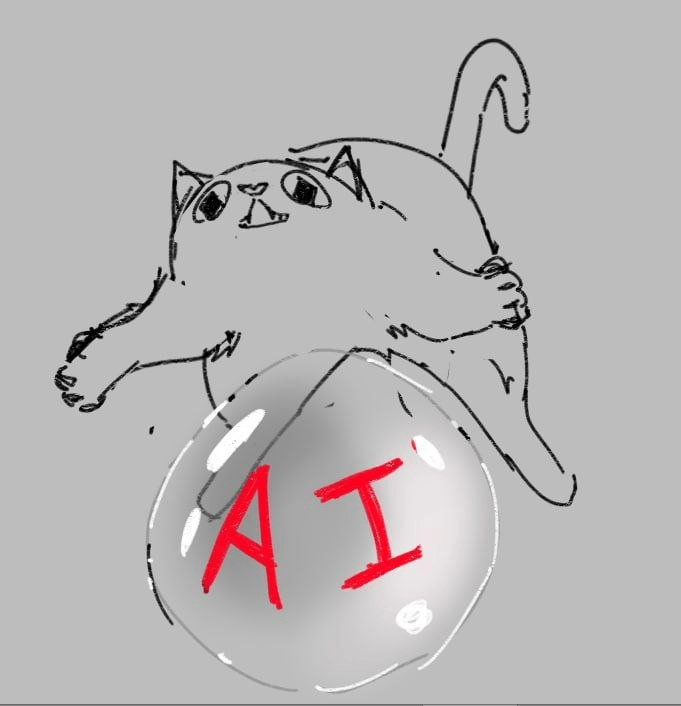
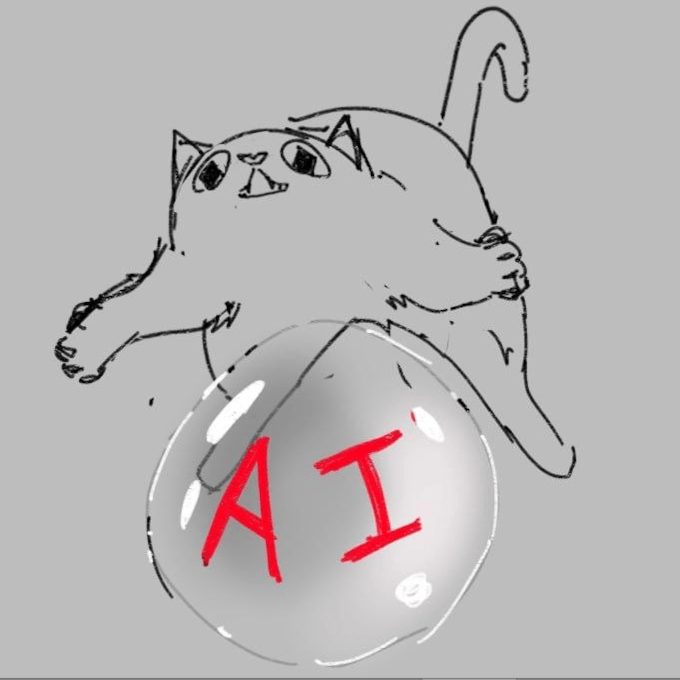
chore: moved uis to work along with ublock

diff --git a/src/entrypoints/content/watchPage.ts b/src/entrypoints/content/watchPage.ts
@@ -16,17 +16,18 @@ export const watchPage = (ctx: any, url: URL) => {
     function onNavigate() {
         console.log('new page loaded');
         if (id) {
-            injectReportUI(ctx, id, anchorReport)
+            injectReportUI(ctx, id, anchorIndicator)
 
             // injectIndicatorUI(ctx, id, anchorIndicator, true)
 
             browser.runtime.sendMessage({
-                type: "check",
+                type: "batchCheck",
+                // type: "check", // temporary null origin on GET fix
                 id
             }).then((data: ScannedSlop) => {
 
                 // if slop detected
-                if (data.isSlop === 2) return
+                if (data.isSlop !== 0 && data.isSlop !== 1) return
 
                 injectIndicatorUI(ctx, id, anchorIndicator, data.isSlop)
 
@@ -49,7 +50,7 @@ async function injectReportUI(ctx: any, id: string, anchor: string) {
         name: 'slop-report',
         position: 'inline',
         anchor,
-        append: "first",
+        append: "last",
         onMount(container) {
             return mount(Report, {
                 target: container,
@@ -65,7 +66,7 @@ async function injectReportUI(ctx: any, id: string, anchor: string) {
     });
     injectedUIs.push(ui);
     // 4. Mount the UI
-    ui.autoMount();
+    ui.mount();
     console.log("injected report")
 }
 
@@ -74,7 +75,7 @@ async function injectIndicatorUI(ctx: any, id: any, anchor: any, isSlop: 0 | 1) 
         name: 'slop-indicator',
         position: 'inline',
         anchor,
-        // append: "after",
+        append: "first",
         onMount(container) {
             return mount(Indicator, {
                 target: container,

diff --git a/src/lib/Report.svelte b/src/lib/Report.svelte
@@ -30,10 +30,10 @@
     }
 </script>
 
-<div class="pr-3">
+<div class="w-full flex justify-end">
     {#if vote === null}
         <div
-            class="pt-1 font-semibold"
+            class="pt-1 font-semibold mr-2"
             transition:slide
         >
             <button

diff --git a/wxt.config.ts b/wxt.config.ts
@@ -6,10 +6,11 @@ export default defineConfig({
   manifestVersion: 3,
   manifest: {
     permissions: ['storage'],
+    // host_permissions: [],
     action: {},
     browser_specific_settings: {
       gecko: {
-        id: "@bm-combatslop",
+        id: "{03f7f66f-379d-42de-9b98-ffdba87431f4}",
         data_collection_permissions: {
           required: ["none"]
         },